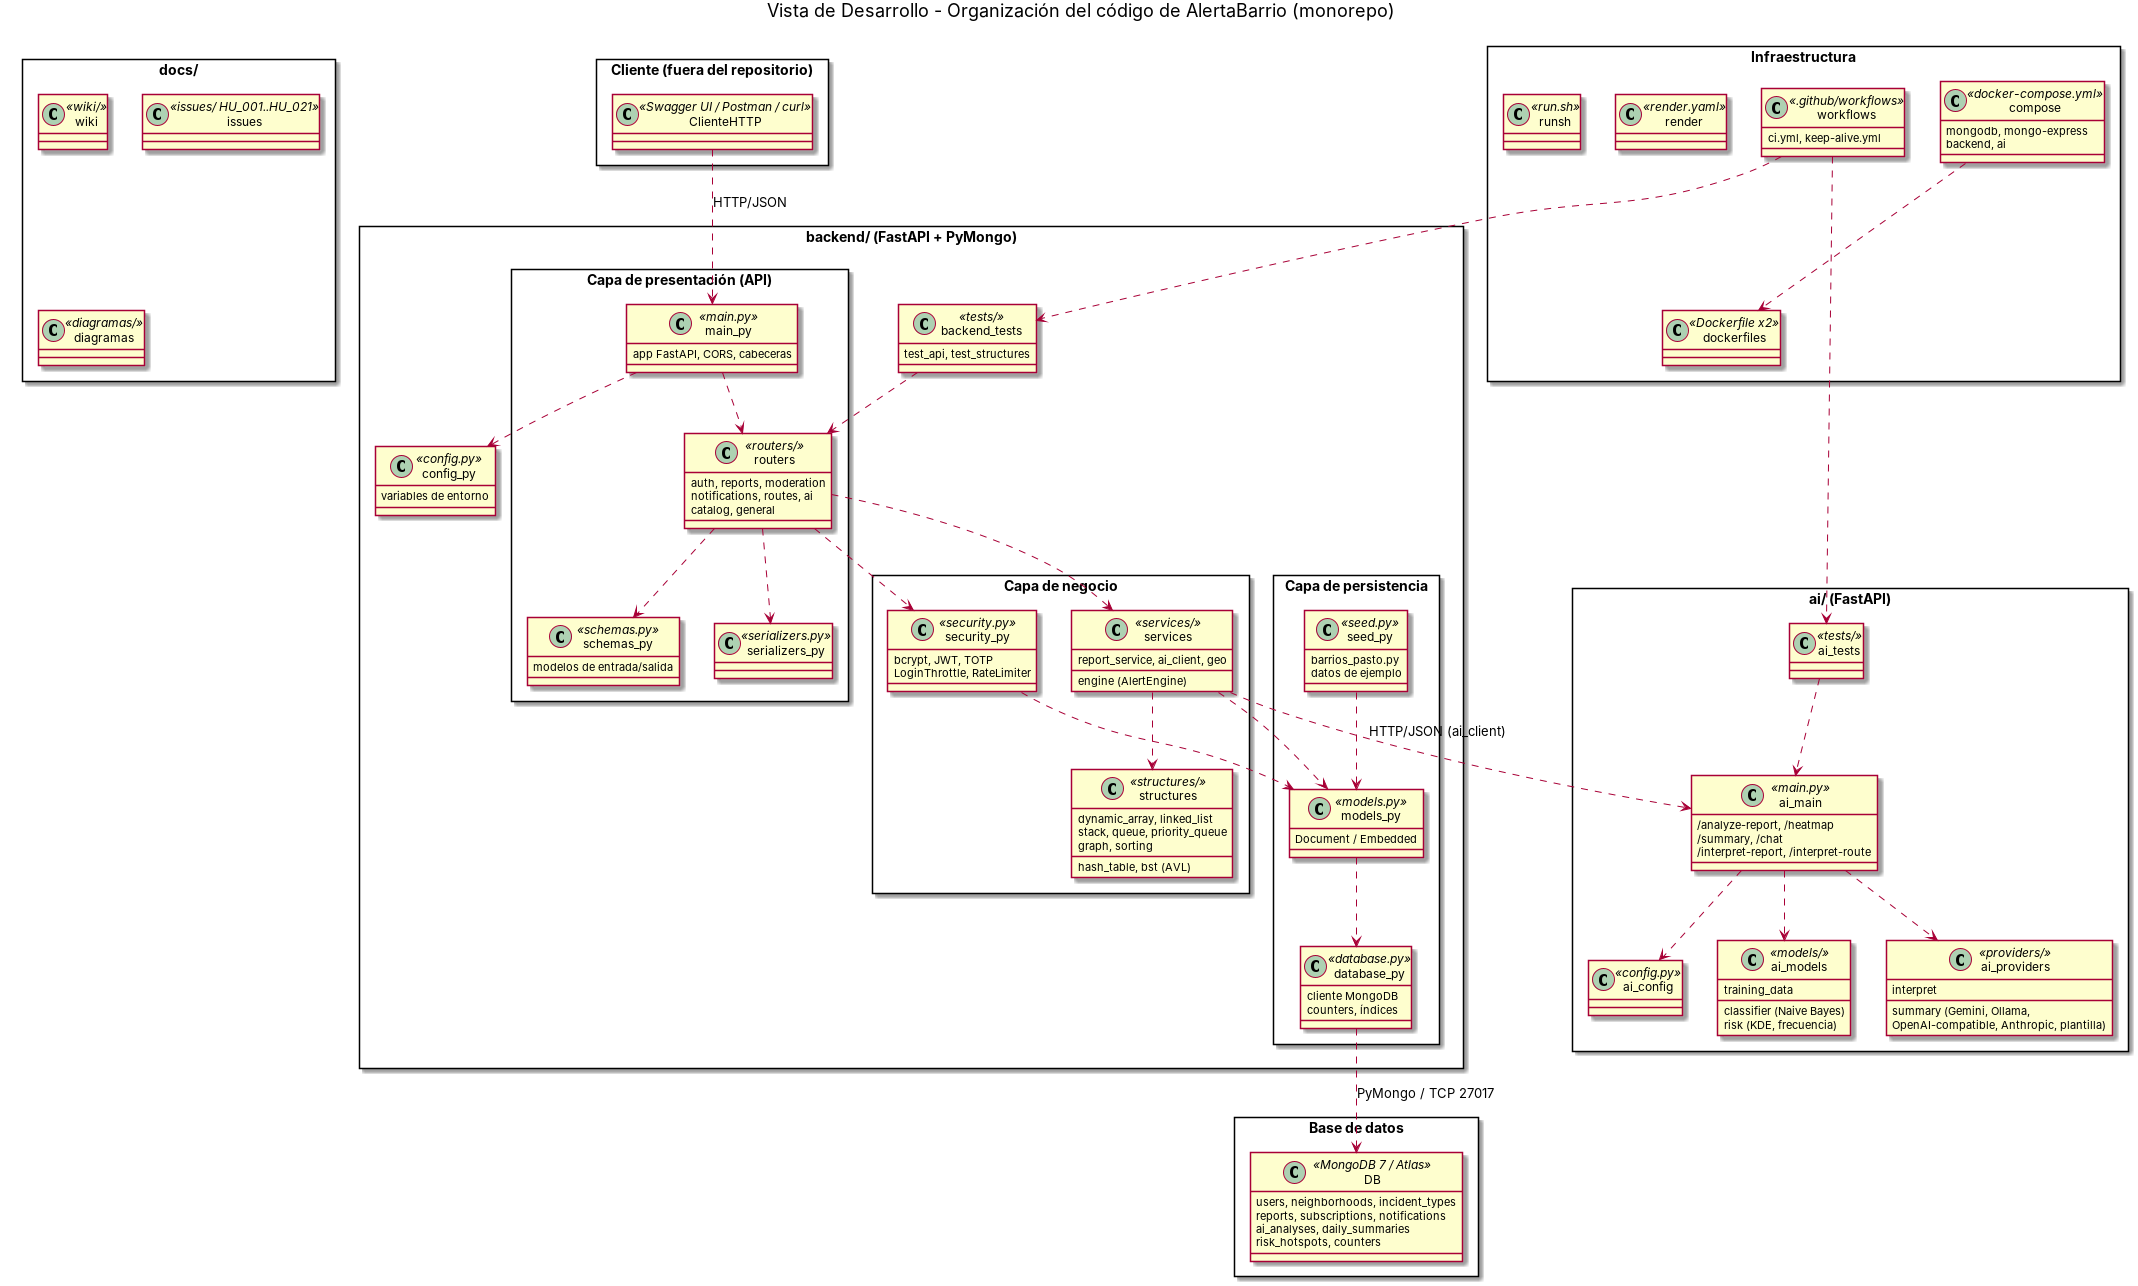
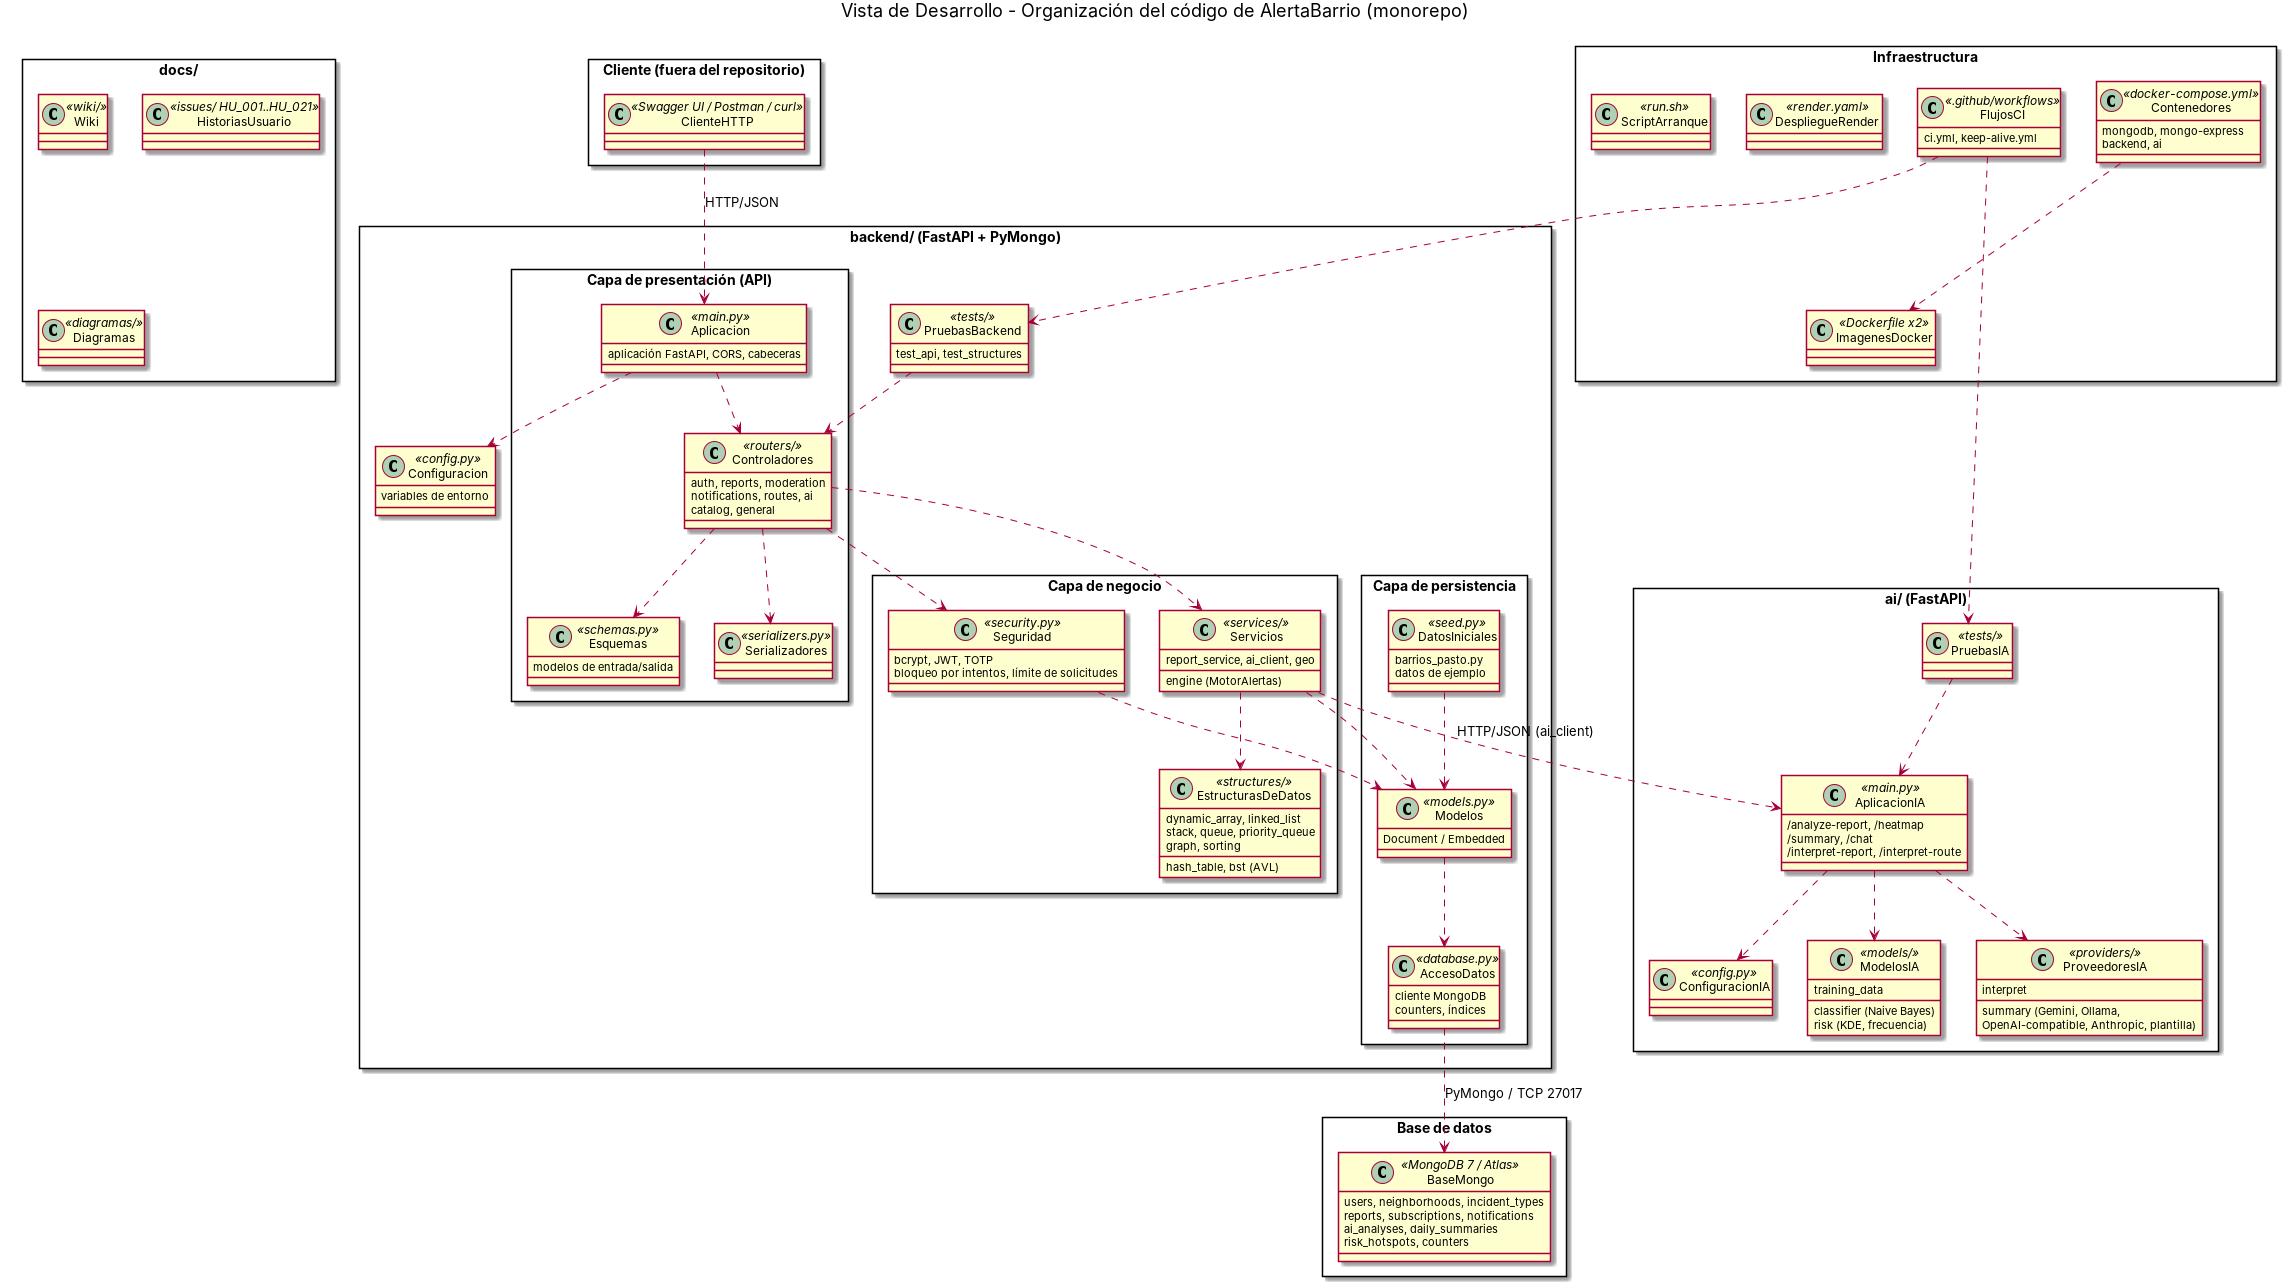
docs: diagramas 4+1 con nombres en español

diff --git a/docs/wiki/06-Arquitectura-4+1-Vistas.md b/docs/wiki/06-Arquitectura-4+1-Vistas.md
@@ -70,7 +70,7 @@ Diagrama de clases del dominio. Cada clase lleva el estereotipo **«document»**
 - Los **ids son enteros** (1, 2, 3…), generados con la colección `counters`, para no cambiar las URLs de la API ni las estructuras de datos.
 - Las clases embebidas no tienen colección ni id propio (salvo *CambioEstado*, que guarda un id para poder deshacer exactamente ese cambio).
 
-**Motor de alertas (mismo diagrama, parte de arriba):** al arrancar, el backend carga los datos en `AlertEngine`, que usa las estructuras propias (heap, pila, cola, lista enlazada, tabla hash, AVL, grafo y arreglo dinámico). `ReportItem` se crea desde *Reporte*, `StatusEntry` desde *CambioEstado* y cada `PendingNotification` se guarda como *Notificacion*.
+**Motor de alertas (mismo diagrama, parte de arriba):** al arrancar, el backend carga los datos en *MotorAlertas* (`AlertEngine` en el código), que usa las estructuras propias: ColaPrioridad (heap), Pila, Cola, ListaEnlazada, TablaHash, ArbolAVL, Grafo y ArregloDinamico. *ElementoReporte* se crea desde *Reporte*, *EntradaEstado* desde *CambioEstado* y cada *NotificacionPendiente* se guarda como *Notificacion*. Los diagramas usan nombres en español; la nota del diagrama indica el nombre de cada clase en el código.
 
 ---
 
